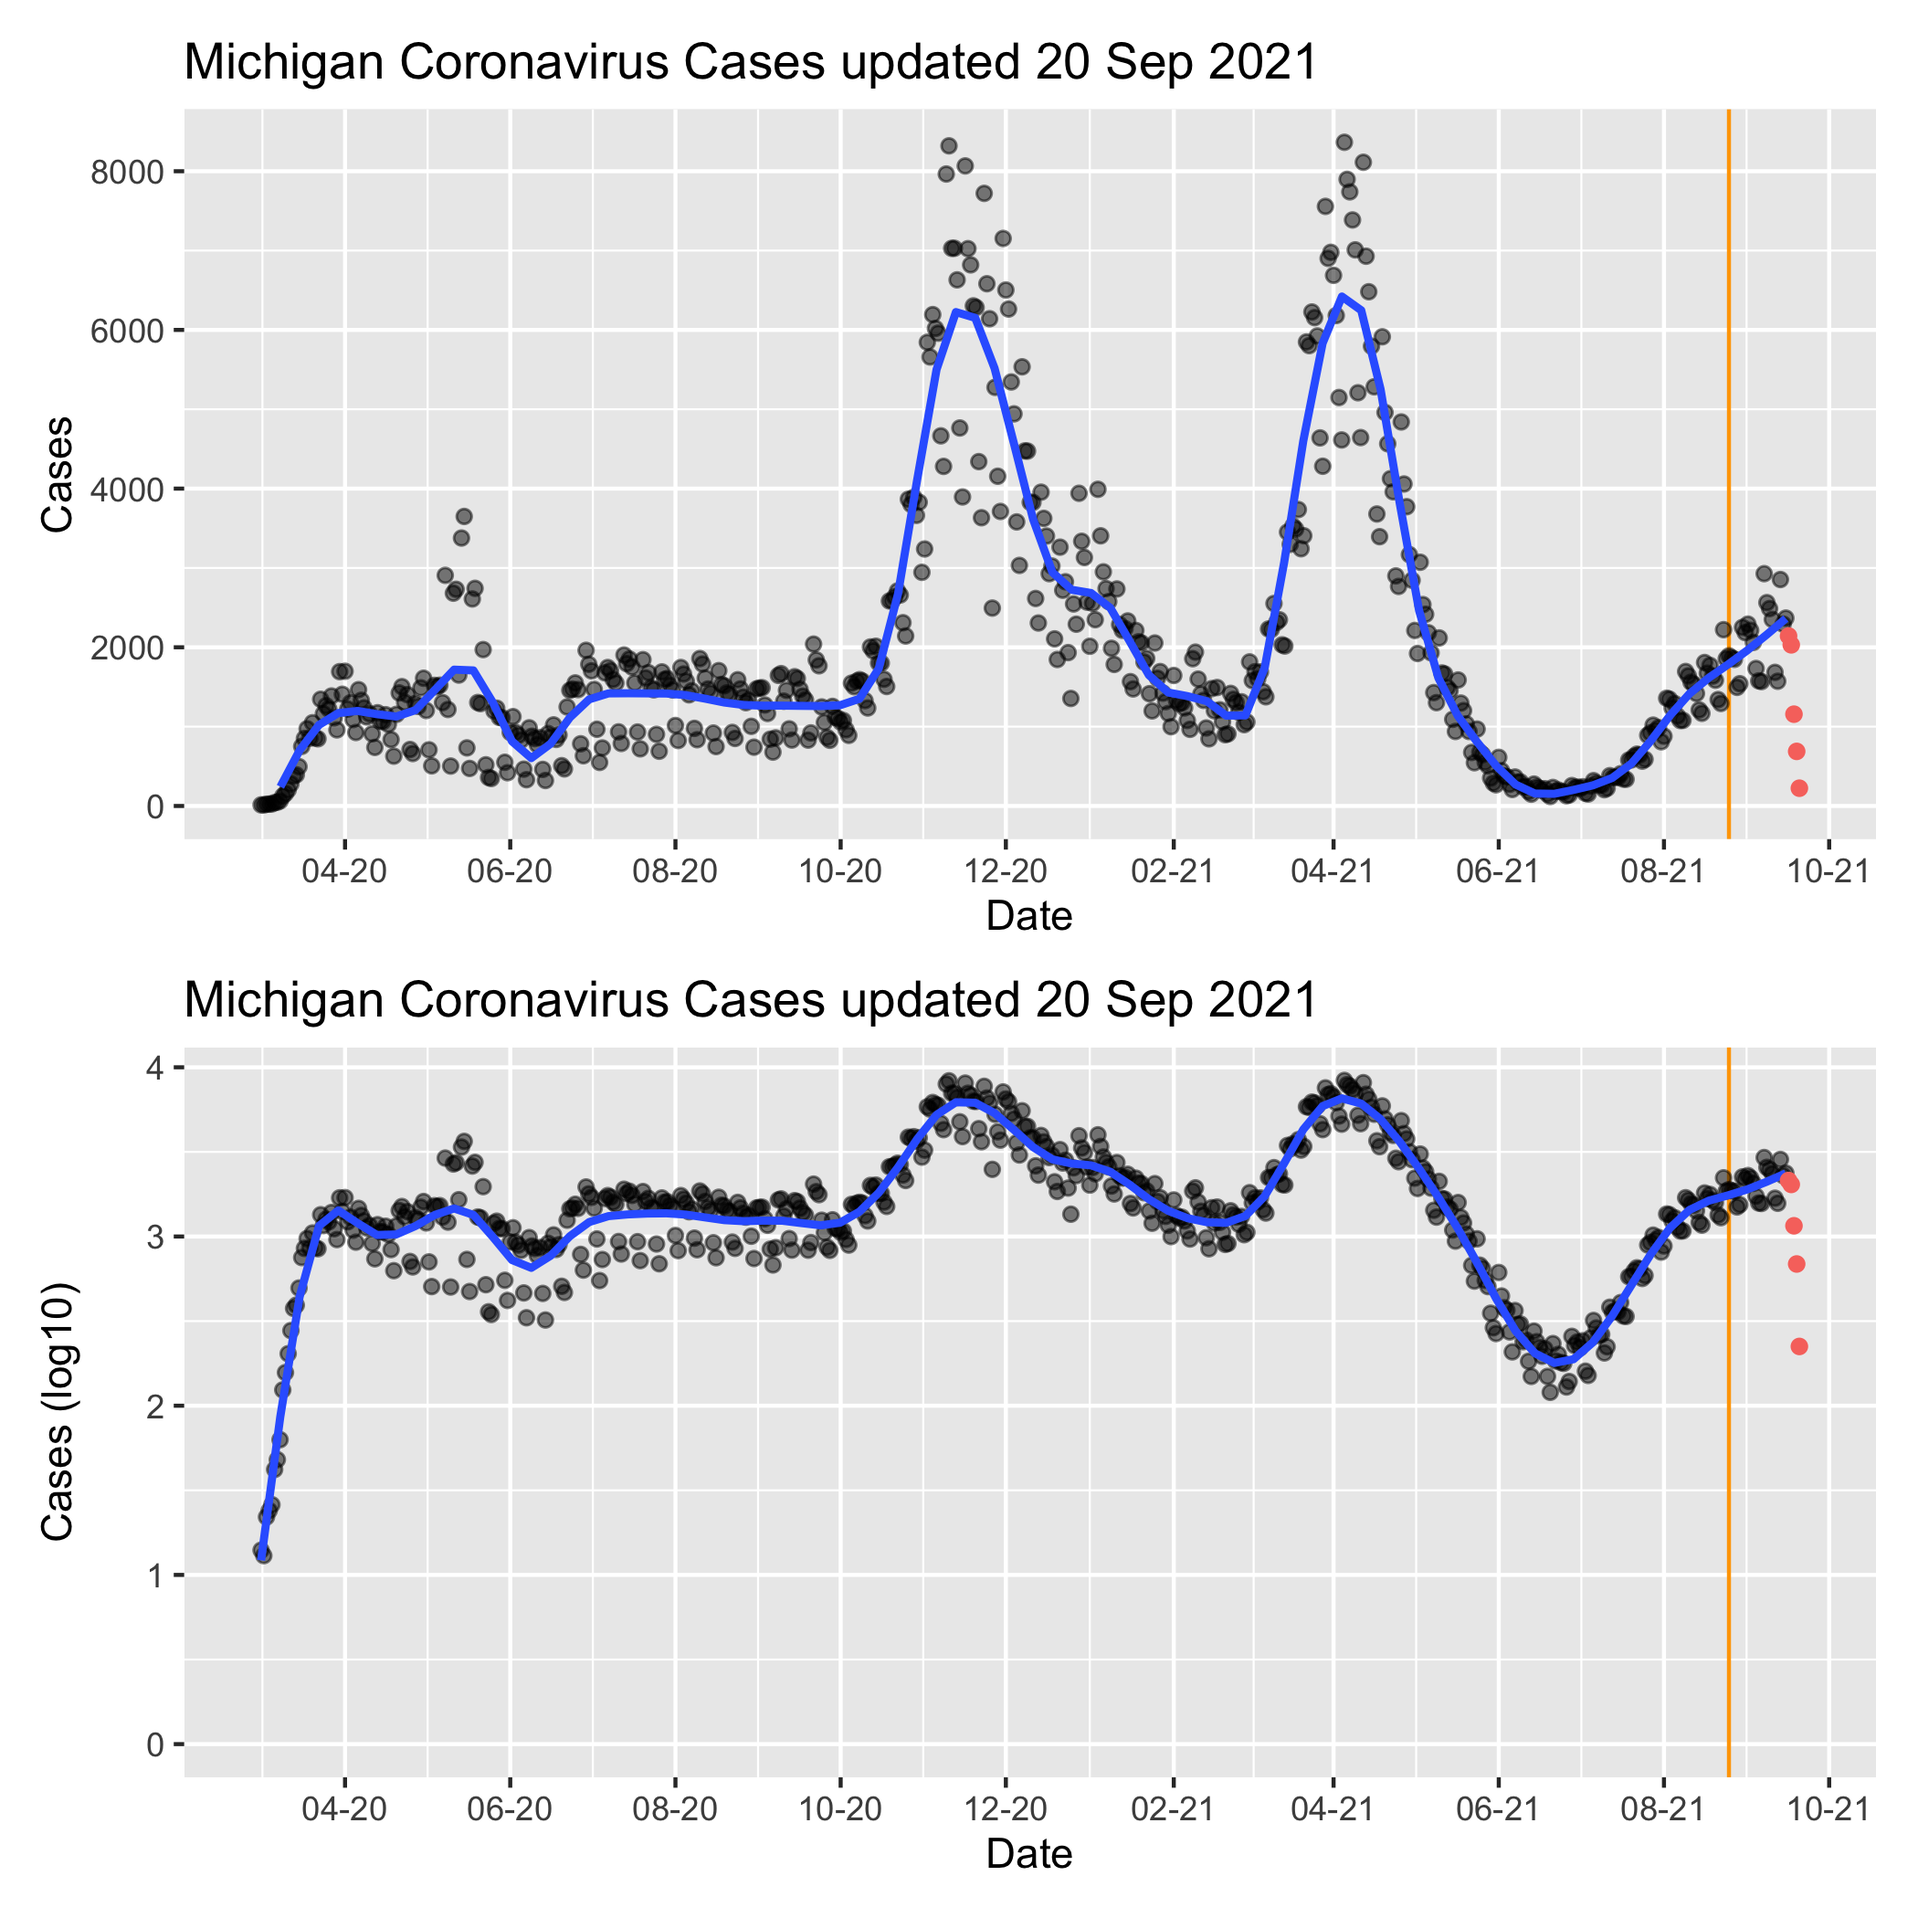
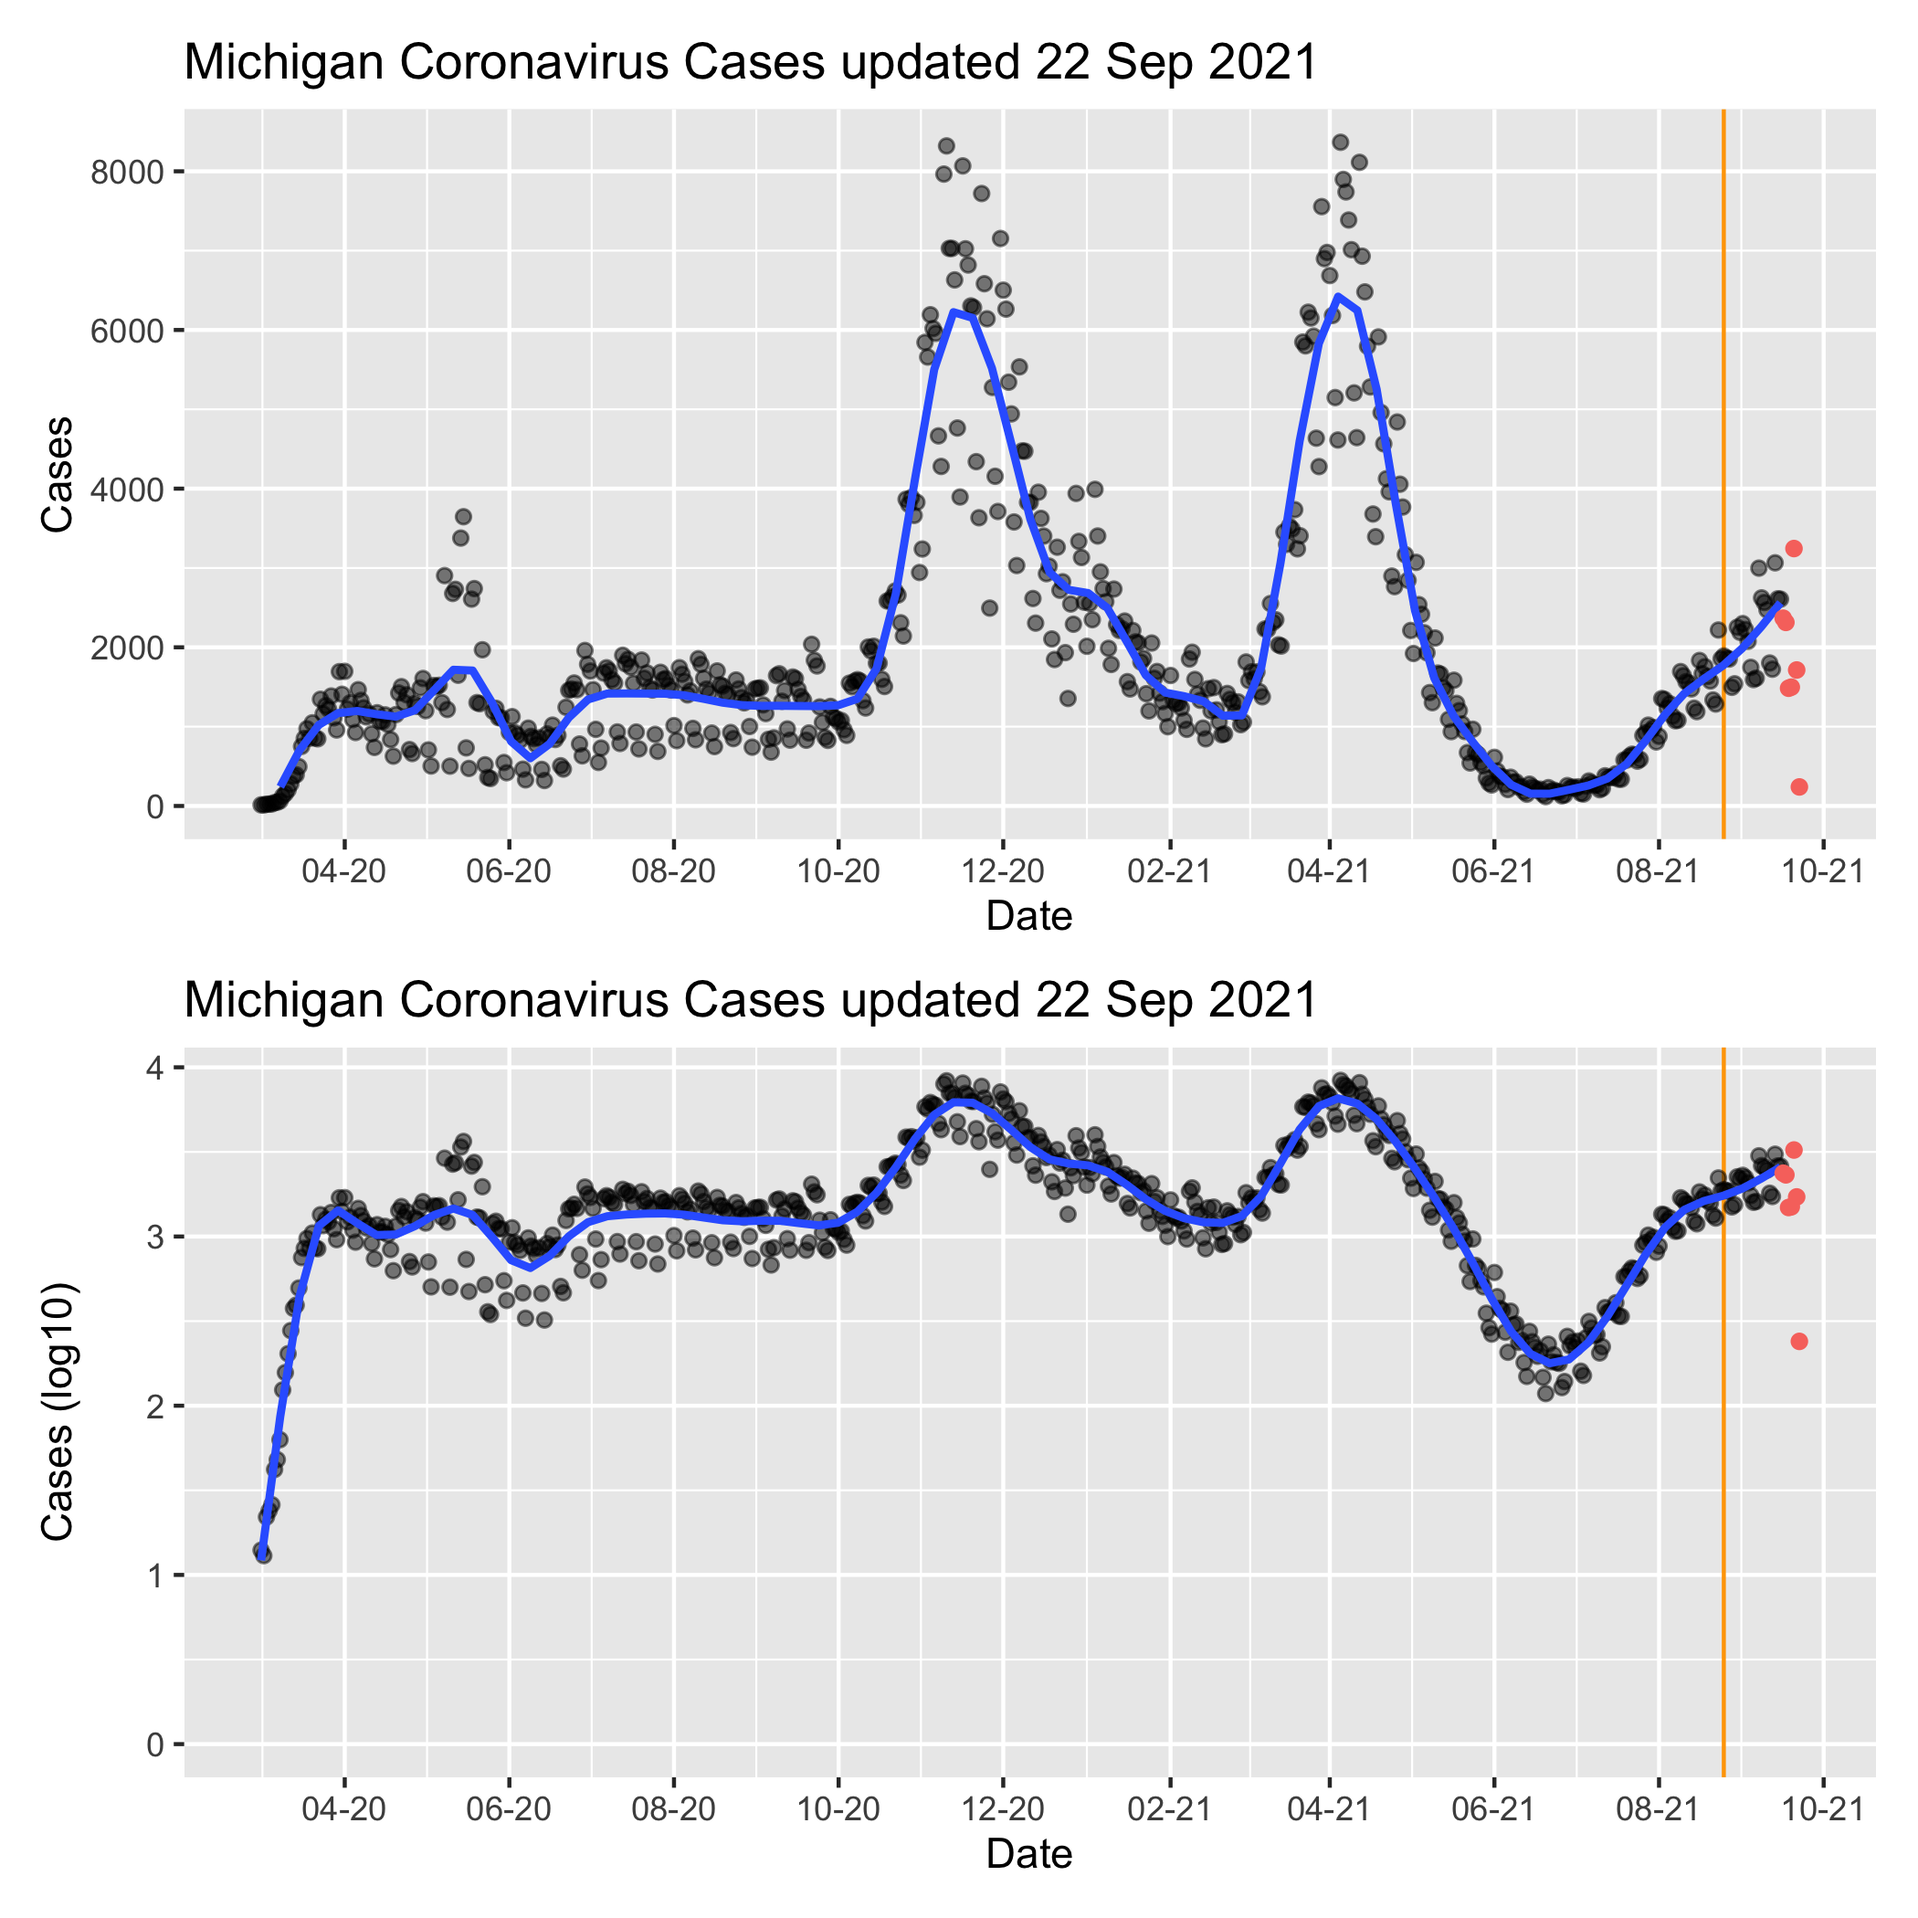
Sep-22 2021 23:53 update

diff --git a/MiCorona.md b/MiCorona.md
@@ -48,11 +48,11 @@ mi_data.head()
     ## 4  Alcona 2020-03-05   Confirmed    0.0     0.0               0.0   
     ## 
     ##    Deaths.Cumulative                       Updated  
-    ## 0                0.0 2021-09-20 13:25:28.323800064  
-    ## 1                0.0 2021-09-20 13:25:28.323800064  
-    ## 2                0.0 2021-09-20 13:25:28.323800064  
-    ## 3                0.0 2021-09-20 13:25:28.323800064  
-    ## 4                0.0 2021-09-20 13:25:28.323800064
+    ## 0                0.0 2021-09-22 14:09:52.524699904  
+    ## 1                0.0 2021-09-22 14:09:52.524699904  
+    ## 2                0.0 2021-09-22 14:09:52.524699904  
+    ## 3                0.0 2021-09-22 14:09:52.524699904  
+    ## 4                0.0 2021-09-22 14:09:52.524699904
 
 ``` python
 max_date = max(mi_data["Updated"])
@@ -135,7 +135,7 @@ viz_function(mi_cases_by_day_exclusive, mi_cases_by_day_last4, Date, Deaths, ver
 
 ![](MiCorona_files/figure-gfm/viz2-1.png)<!-- -->
 
-Note that the last 5 days of data have been colored red on the graph, as
+Note that the last 7 days of data have been colored red on the graph, as
 they frequently change as more information becomes available. Vertical
 orange line at 4 weeks in the past (as hospitalizations and deaths
 usually follow cases by three weeks, and the deaths graph regression
